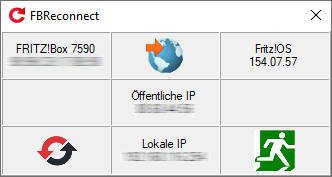
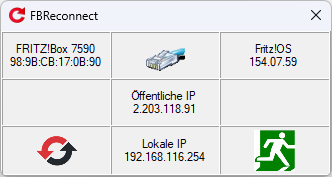
Error handling adjusted

diff --git a/Form1.cs b/Form1.cs
@@ -183,7 +183,7 @@ namespace FBReconnect
             fbUrl = String.Format("http://{0}:49000/tr64desc.xml", GetDefaultGateway());
             isFitzBox = CheckFritzBoxReachability();
 
-            if (!isFitzBox)
+            if (isFitzBox)
             {
                 string xml = await FetchXmlFromUrl(fbUrl);
                 FBVersion = GetDisplay(xml);
